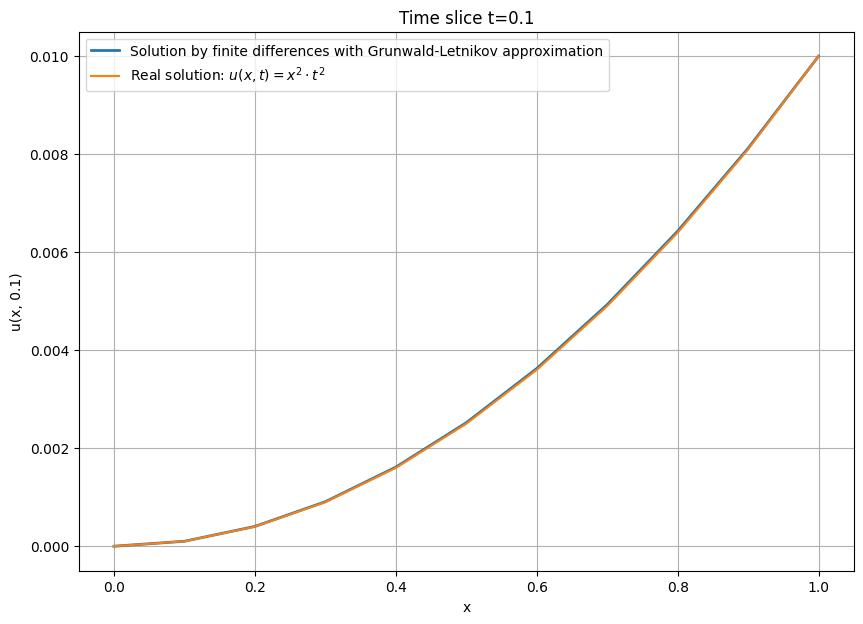
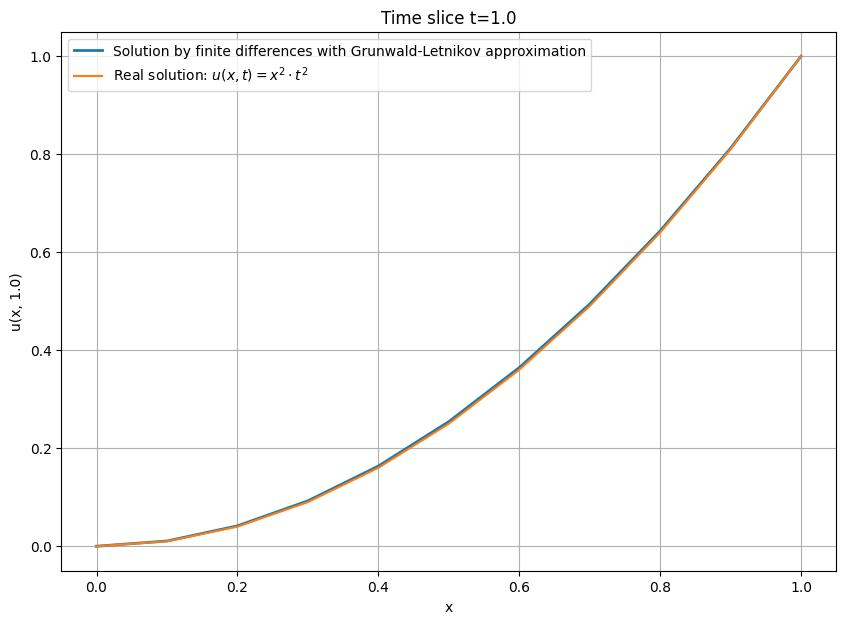
Fix RL approx

diff --git a/main.cpp b/main.cpp
@@ -61,19 +61,20 @@ int main(int argc, char** argv) {
     NLogger::ChangeLogLevel(LOG_LEVEL);
     
     {   // file:///C:/Users/Igor/Desktop/c++/FDESolver/tasks/task1/task1.md
+        const double alpha = 1.5, gamma = 0.9;
         TSolverConfig config = {
             .LeftBound = 0.0,
             .RightBound = 1.0,
             .MaxTime = 1.0,
-            .Alpha = 1.7,
-            .Gamma = 0.7,
+            .Alpha = alpha,
+            .Gamma = gamma,
             .SpaceStep = 0.1,
-            .TimeStep = 0.001,
+            .TimeStep = 0.01,
             .Beta = 1.0,
-            .DiffusionCoefficient = [](double x){ return NFunctions::Gamma(3.0 - 1.7) / NFunctions::Gamma(3.0) * std::pow(x, 1.7); },
+            .DiffusionCoefficient = [alpha](double x){ return NFunctions::Gamma(3.0 - alpha) / NFunctions::Gamma(3.0) * std::pow(x, alpha); },
             .DemolitionCoefficient = [](double x){ return 0.0; },
             .ZeroTimeState = [](double x){ return 0.0; },
-            .SourceFunction = [](double x, double t){ return NFunctions::Gamma(3.0) / NFunctions::Gamma(3.0 - 0.7) * (std::pow(t, 2.0 - 0.7) * std::pow(x, 2.0)) - std::pow(x, 2.0) * std::pow(t, 2.0); },
+            .SourceFunction = [gamma](double x, double t){ return NFunctions::Gamma(3.0) / NFunctions::Gamma(3.0 - gamma) * (std::pow(t, 2.0 - gamma) * std::pow(x, 2.0)) - std::pow(x, 2.0) * std::pow(t, 2.0); },
             .LeftBoundState = [](double t){ return 0.0; },
             .RightBoundState = [](double t){ return std::pow(t, 2.0); },
             .BordersAvailable = true,
@@ -101,8 +102,8 @@ int main(int argc, char** argv) {
 
     {   // file:///C:/Users/Igor/Desktop/c++/FDESolver/tasks/task2/task2.md
         TSolverConfig config = {
-            .LeftBound = -2.0,
-            .RightBound = 2.0,
+            .LeftBound = -0.4,
+            .RightBound = 0.4,
             .MaxTime = 0.2,
             .Alpha = 1.8,
             .Gamma = 0.9,

diff --git a/libs/mfdes.hpp b/libs/mfdes.hpp
@@ -50,16 +50,21 @@ namespace NEquationSolver {
         }
 
         void Validate() {
-            double const left = Config.DiffusionCoefficient(0) * PowTCGamma / PowSCAlpha;
+            auto range = std::ranges::views::iota(0ull, Config.SpaceCount + 1);
+            usize i = *std::ranges::max_element(range.begin(), range.end(), [&](usize i, usize j){
+                return Config.DiffusionCoefficient(i) < Config.DiffusionCoefficient(j);
+            });
+
+            double const left = Config.DiffusionCoefficient(i) * PowTCGamma / PowSCAlpha;
             double const right = Config.Gamma / Config.Alpha;
-            
+            DEBUG_LOG << "Left: " << left << " (" << i << ") Right: " << right << Endl;
             if (left > right) {
                 WARNING_LOG << "May be problem with condition" << Endl
                             << "\t\tD * pow(tau, gamma) / pow(h, alpha): " << left << Endl
                             << "\t\tgamma/alpha: " << right << Endl;
 
-                WARNING_LOG << "May make h >= " << std::pow(PowTCGamma * Config.DiffusionCoefficient(0) / right, 1.0/Config.Alpha) << Endl;
-                WARNING_LOG << "Or tau <= " << std::pow(right * PowSCAlpha / Config.DiffusionCoefficient(0), 1.0/Config.Gamma) << Endl;
+                WARNING_LOG << "May make h >= " << std::pow(PowTCGamma * Config.DiffusionCoefficient(i) / right, 1.0/Config.Alpha) << Endl;
+                WARNING_LOG << "Or tau <= " << std::pow(right * PowSCAlpha / Config.DiffusionCoefficient(i), 1.0/Config.Gamma) << Endl;
             }
         }
 

diff --git a/libs/mfdes.cpp b/libs/mfdes.cpp
@@ -30,7 +30,7 @@ namespace NEquationSolver {
 
     double TRLFDESRule::CoefG(IEquationSolver const *const solver, usize k) {
         const double alpha = solver->GetConfig().Alpha;
-        const double C0 = 1.0 / ((2.0 - alpha) * NFunctions::Gamma(2.0 - alpha) * (std::pow(2.0, 2.0 - alpha)));
+        const double C0 = 1.0 / (NFunctions::Gamma(3.0 - alpha) * (std::pow(2.0, 2.0 - alpha)));
         
         if (k == 0) {
             return C0;
@@ -57,11 +57,11 @@ namespace NEquationSolver {
 
         if (i <= j + 1) { // Right
             if (i == j + 1) {
-                result -= solver->CoefB(spaceX) * CoefG(solver, 0);
+                result += solver->CoefB(spaceX) * CoefG(solver, 0);
             } else if (j == n && i < n) {
-                result += solver->CoefB(spaceX) * CoefG(solver, n - j);
+                result -= solver->CoefB(spaceX) * CoefG(solver, n - j);
             } else {
-                result += solver->CoefB(spaceX) * (CoefG(solver, j - i) - CoefG(solver, j - i + 1));
+                result += solver->CoefB(spaceX) * (CoefG(solver, j - i + 1) - CoefG(solver, j - i));
             }
         }
 

diff --git a/libs/utils/utils.hpp b/libs/utils/utils.hpp
@@ -8,6 +8,7 @@
 #include <map>
 #include <numbers>
 #include <unordered_map>
+#include <ranges>
 
 #include <logger/logger.hpp>
 
